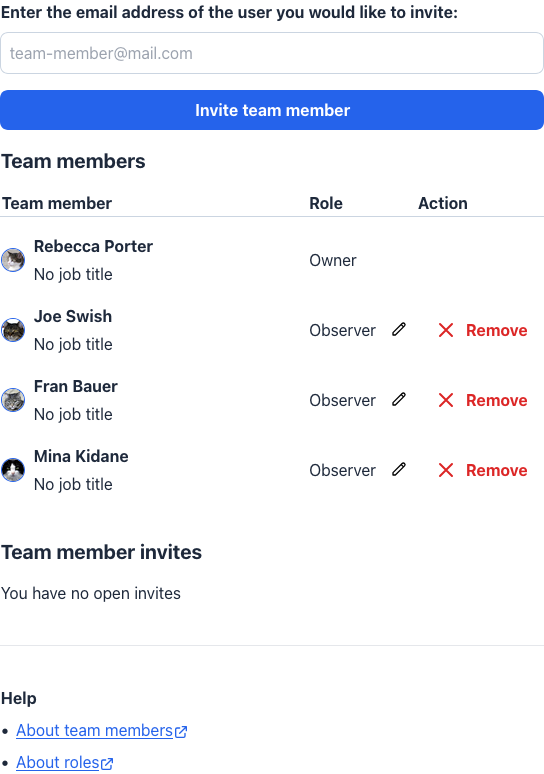
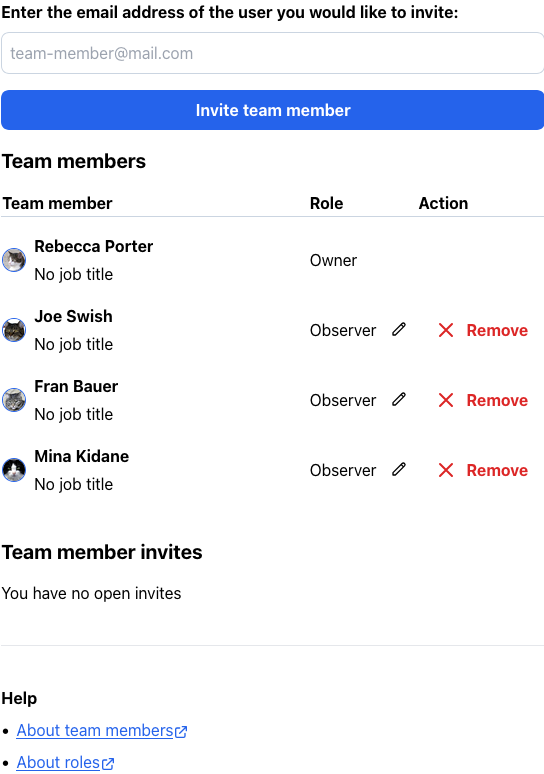
Update product screenshots

diff --git a/projectify/storefront/templates/storefront/index.html b/projectify/storefront/templates/storefront/index.html
@@ -66,22 +66,7 @@
                 {% endif %}
             </div>
             <div class="h-[300px] flex flex-row items-center overflow-hidden">
-                <div class="relative rounded-lg transform -rotate-12 h-48 flex flex-row items-center p-4">
-                    <div class="absolute h-0.5 w-[96px] bg-primary opacity-10 transform -skew-x-12 left-[0%] top-[5%]"></div>
-                    <div class="absolute h-0.25 w-[80px] bg-primary opacity-10 transform -skew-x-12 left-[9%] top-[85%]"></div>
-                    <div class="absolute h-0.5 w-[112px] bg-primary opacity-10 transform -skew-x-12 left-[18%] top-[15%]"></div>
-                    <div class="absolute h-0.5 w-[64px] bg-primary opacity-10 transform -skew-x-12 left-[27%] top-[90%]"></div>
-                    <div class="absolute h-0.5 w-[128px] bg-primary opacity-10 transform -skew-x-12 left-[36%] top-[10%]"></div>
-                    <div class="absolute h-0.25 w-[88px] bg-primary opacity-10 transform -skew-x-12 left-[45%] top-[75%]"></div>
-                    <div class="absolute h-0.5 w-[104px] bg-primary opacity-10 transform -skew-x-12 left-[54%] top-[95%]"></div>
-                    <div class="absolute h-0.5 w-[72px] bg-primary opacity-10 transform -skew-x-12 left-[63%] top-[20%]"></div>
-                    <div class="absolute h-0.5 w-[120px] bg-primary opacity-10 transform -skew-x-12 left-[72%] top-[80%]"></div>
-                    <div class="absolute h-0.5 w-[96px] bg-primary opacity-10 transform -skew-x-12 left-[81%] top-[25%]"></div>
-                    <div class="absolute h-0.5 w-[80px] bg-primary opacity-10 transform -skew-x-12 left-[90%] top-[70%]"></div>
-                    <div class="absolute h-0.5 w-[96px] bg-primary opacity-10 transform -skew-x-12 left-[10%] top-[55%]"></div>
-                    <div class="absolute h-0.5 w-[80px] bg-primary opacity-10 transform -skew-x-12 left-[90%] top-[70%]"></div>
-                    {% picture src="solutions/development-teams-tasks.png" alt=_("An illustration showing the look and feel of tasks in Projectify's user interface") klass="relative z-10 shadow-lg" fetchpriority="high" %}
-                </div>
+                {% picture src="solutions/development-teams-tasks.png" alt=_("An illustration showing the look and feel of tasks in Projectify's user interface") fetchpriority="high" %}
             </div>
         </section>
         <div class="w-full p-6 max-w-4xl flex flex-col gap-16">
@@ -94,37 +79,15 @@
                 </p>
             </section>
             <section class="flex flex-col gap-8">
-                <div class="flex flex-col gap-16">
-                    <section class="flex flex-col items-center gap-6 md:grid grid-cols-2">
-                        <div class="flex flex-col gap-6 order-last md:order-none">
-                            <h3 class="text-2xl font-bold md:text-4xl">{% trans "Plan and execute" %}</h3>
-                            <p>{% trans "Set up and monitor features, QA tasks, bug fixes and more for multiple team members of your team." %}</p>
-                        </div>
-                        <div class="w-full max-w-lg justify-self-center">
-                            {% picture src="solutions/development-teams-tasks.png" alt=_("An illustration showing tasks in a section called 'In Progress'") %}
-                        </div>
-                    </section>
-                </div>
                 <section class="flex flex-col items-center gap-6 md:grid grid-cols-2">
                     <div class="w-full max-w-lg justify-self-center">
-                        {% picture src="solutions/project-management-team-member.png" alt=_("An illustration showing how Projectify displays each team members assigned task count") %}
+                        {% picture src="solutions/project-management-permissions.png" alt=_("An illustration of a settings screen showing team members belonging to a team member and their role within the workspace. The illustration also shows a button allowing filtering by role and another button letting a user invite new team members") %}
                     </div>
-                    <div class="flex flex-col gap-6 order-last md:order-none">
-                        <h3 class="text-2xl font-bold md:text-4xl">{% trans "An ethical approach to management" %}</h3>
-                        <p>
-                            {% trans "View how many tasks a team member has assigned to them, so the workload can be divided equally. Filter by team member to see what individual colleagues are working on." %}
-                        </p>
-                    </div>
-                </section>
-                <section class="flex flex-col items-center gap-6 md:grid grid-cols-2">
                     <div class="flex flex-col gap-6 order-last md:order-none">
                         <h3 class="text-2xl font-bold md:text-4xl">{% trans "Permissions to control access" %}</h3>
                         <p>
                             {% trans "Make sure nothing important gets deleted. With permission roles - Owner, Maintainer, Contributor and Observer, you can be safe in knowing there won't be any accidental data loss." %}
                         </p>
-                    </div>
-                    <div class="w-full max-w-lg justify-self-center">
-                        {% picture src="solutions/project-management-permissions.png" alt=_("An illustration of a settings screen showing team members belonging to a team member and their role within the workspace. The illustration also shows a button allowing filtering by role and another button letting a user invite new team members") %}
                     </div>
                 </section>
             </section>

diff --git a/projectify/management/commands/take_screenshots.py b/projectify/management/commands/take_screenshots.py
@@ -260,7 +260,7 @@ class Command(BaseCommand):
             f"{base_url}{reverse('dashboard:projects:detail', kwargs={'project_uuid': self.in_progress_project.uuid})}"
         )
         self.remove_debug_toolbar(driver)
-        project_main_selector = 'div[role="presentation"] main'
+        project_main_selector = "main #project-tasks"
         in_progress_element = wait.until(
             EC.presence_of_element_located(
                 (By.CSS_SELECTOR, project_main_selector)
@@ -270,23 +270,12 @@ class Command(BaseCommand):
             str(output_directory / "development-teams-tasks.png")
         )
 
-        # project management solutions team member filter
-        team_member_filters_selector = "#team-member-filters"
-        team_member_filters_element = wait.until(
-            EC.presence_of_element_located(
-                (By.CSS_SELECTOR, team_member_filters_selector)
-            )
-        )
-        team_member_filters_element.screenshot(
-            str(output_directory / "project-management-team-member.png")
-        )
-
         # project management solutions permissions screen
         driver.get(
             f"{base_url}{reverse('dashboard:workspaces:team-members', kwargs={'workspace_uuid': self.workspace.uuid})}"
         )
         self.remove_debug_toolbar(driver)
-        team_members_selector = 'div[role="presentation"] main'
+        team_members_selector = "main#main"
         team_members_element = wait.until(
             EC.presence_of_element_located(
                 (By.CSS_SELECTOR, team_members_selector)
